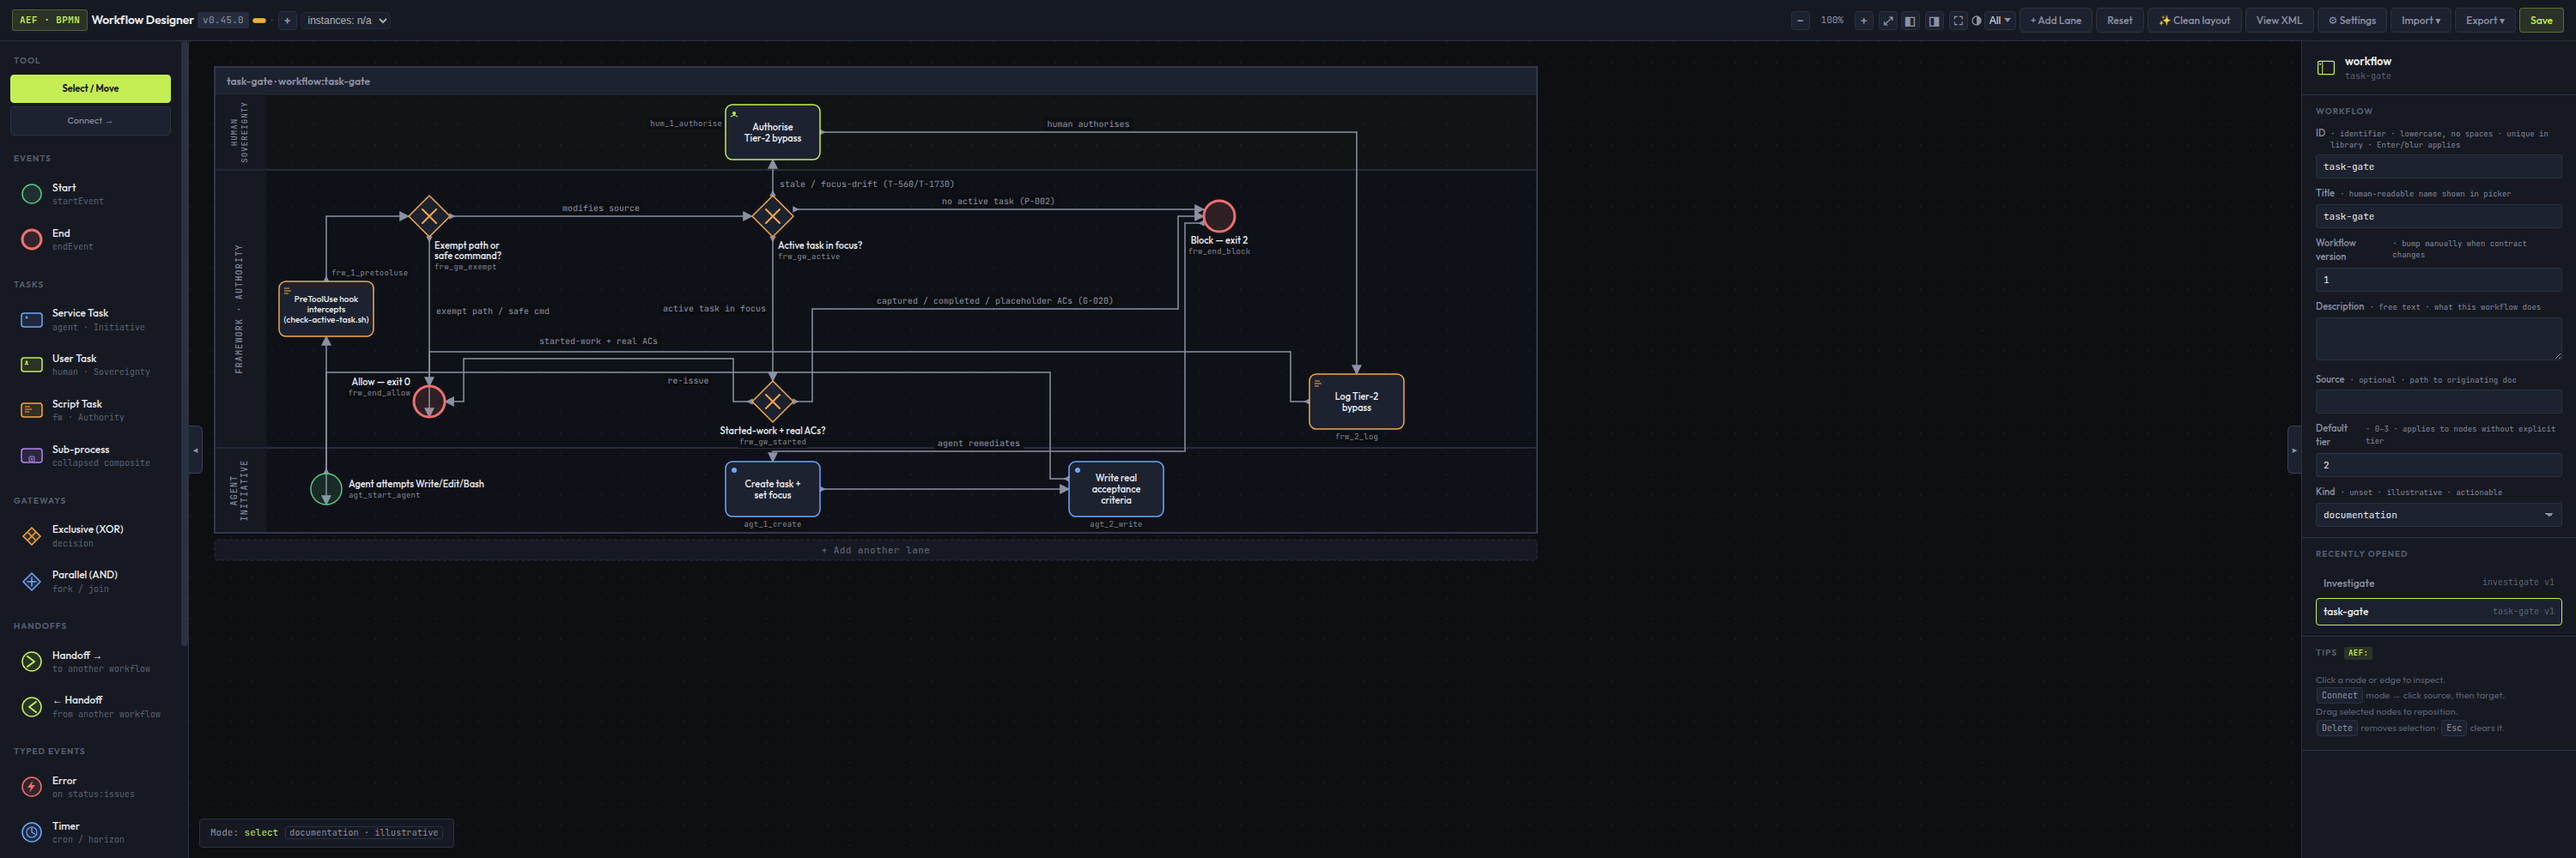
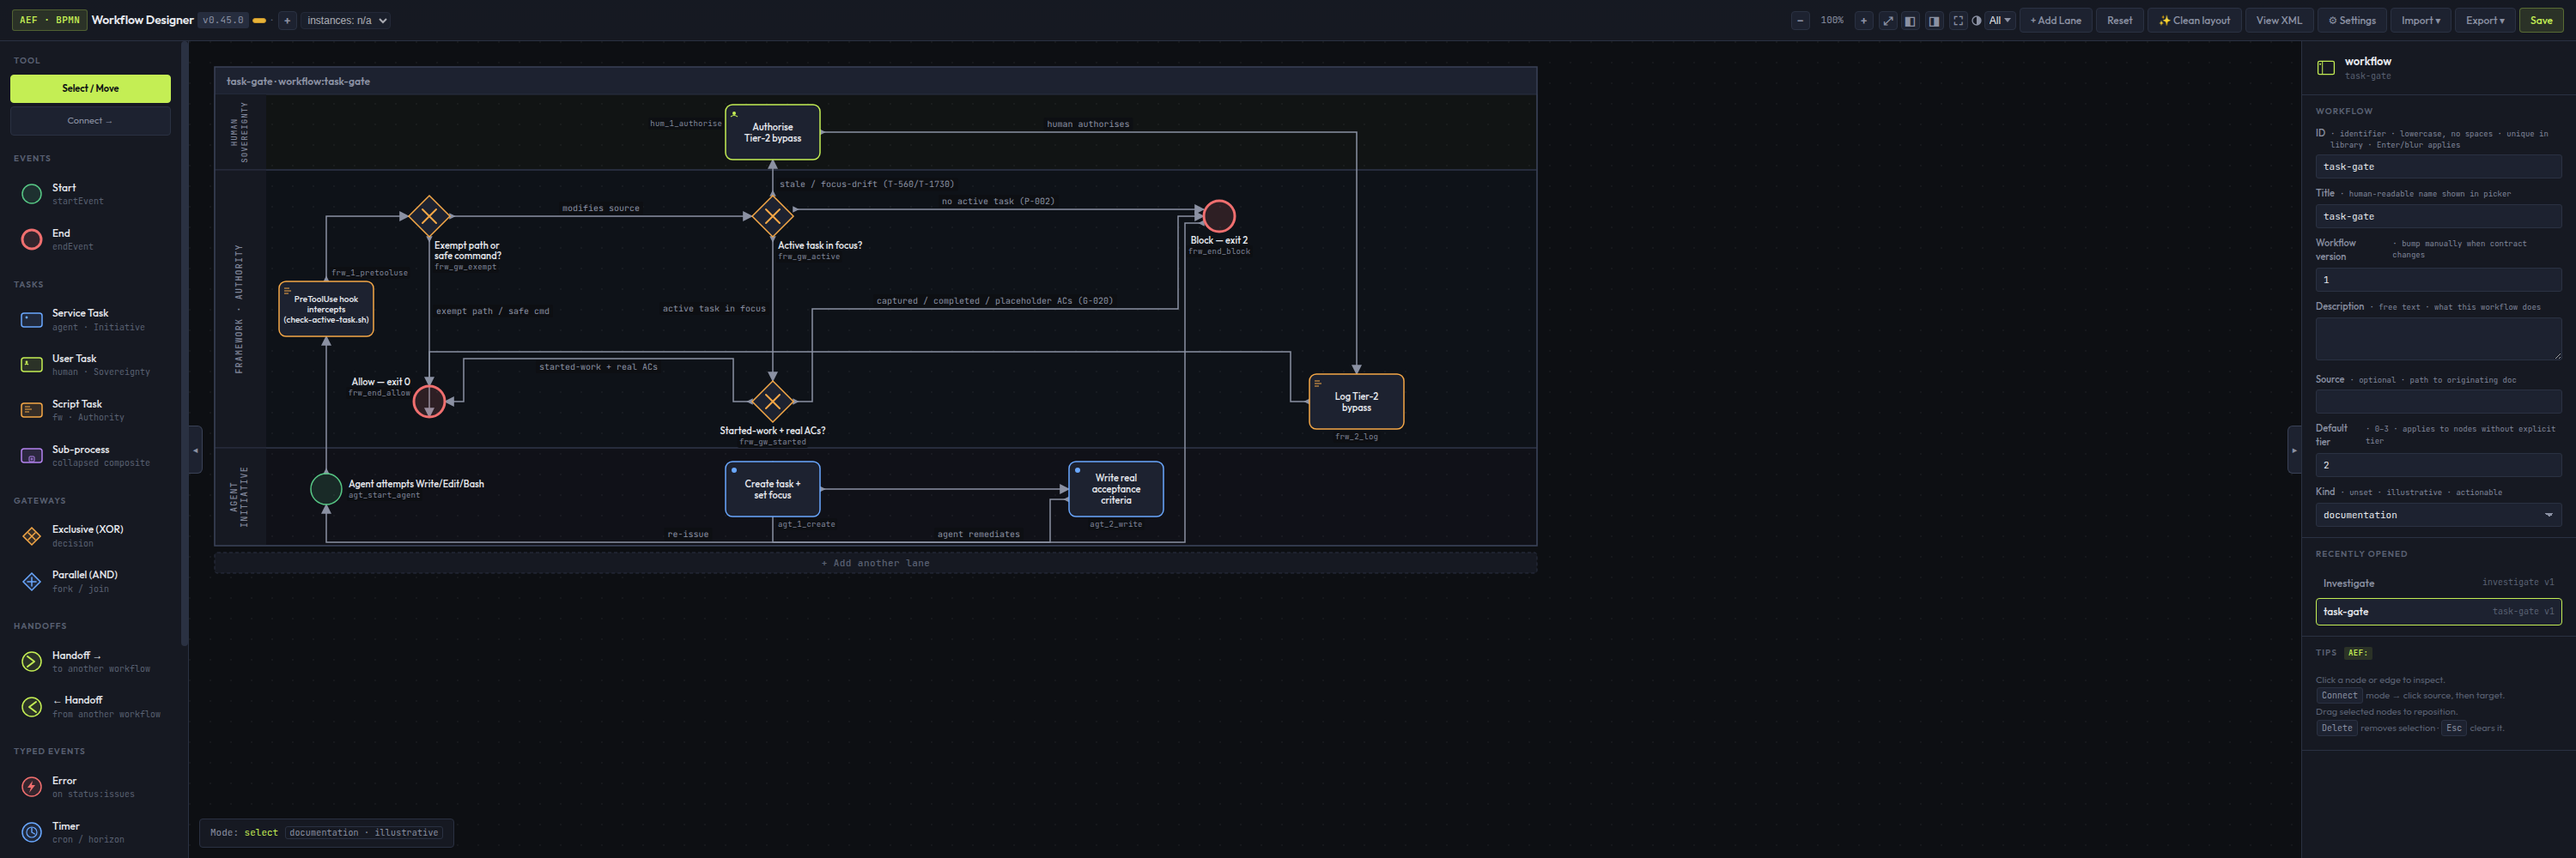
T-1465 round 2: routing change reverted (reviewer red: task-gate 're-issue' lay on the start event's outgoing flow); instead the drawn pool encloses every flow between steps inside the lanes, and its label (drawn only, like T-1154's label pad), so loop bars under the last lane no longer run over the

Changed region(s): [[0.093, 0.62, 0.589, 0.682], [0.341, 0.496, 0.403, 0.527], [0.217, 0.372, 0.248, 0.434]]

diff --git a/src/aef-workflow-designer.html b/src/aef-workflow-designer.html
@@ -4183,6 +4183,19 @@ function fitPoolToLabels() {
     if (b.y < floor) bottom = Math.max(bottom, b.y + b.height + POOL_LABEL_MARGIN_BOTTOM);
     if (b.x + b.width > leftEdge && b.y < floor) left = Math.min(left, b.x - POOL_LABEL_MARGIN);   // T-1386, same rule mirrored
   }
+  // T-1465: a flow between two steps inside the lanes whose loop bar the router put under the last lane (task-lifecycle
+  // 'gate failed — rework', task-gate 're-issue' and 'agent remediates') is drawn inside the pool too, with its label,
+  // so neither runs over the "+ Add another lane" strip. Drawn only, like the label pad; the route is unchanged. A flow
+  // to a step outside the lanes does not stretch it (T-1164's rule: that picture must show the disagreement).
+  const inLanes = id => { const n = state.nodes.find(x => x.id === id); return !!n && n.y >= POOL_Y && n.y < floor; };
+  for (const g of svg.querySelectorAll('#g-edges g.edge[data-id]')) {
+    const e = state.edges.find(x => x.id === g.dataset.id);
+    if (!e || !inLanes(e.source) || !inLanes(e.target)) continue;
+    for (const t of g.querySelectorAll('path.edge-path, text.edge-label')) {
+      let b; try { b = t.getBBox(); } catch (_) { continue; }
+      if (b.y + b.height > floor) bottom = Math.max(bottom, b.y + b.height + POOL_LABEL_MARGIN_BOTTOM);
+    }
+  }
   const pad = Math.ceil(right - edge), padB = getLanes().length ? Math.ceil(bottom - floor) : 0;
   const padL = Math.max(0, Math.ceil(leftEdge - left));
   if (pad !== poolLabelPad || padB !== poolLabelPadBottom || padL !== poolLabelPadLeft) {
@@ -6870,11 +6883,6 @@ function orthoLoopBack(spA, spB, dirA, dirB, src, tgt, edge) {
   const LANE_MARGIN = 12 + routeMargin;     // distance from the lane border to the detour line
   let belowMin, belowMax, aboveMin, aboveMax;
   let topY = -Infinity, botY = Infinity;   // T-1456: the lanes the flow connects (no lane info: unbounded)
-  let poolTopY = -Infinity, poolBotY = Infinity;   // T-1465: all lanes (no lanes: unbounded)
-  if (state.lanes.length) {
-    poolTopY = Math.min(...state.lanes.map(l => laneTop(l.id)));
-    poolBotY = Math.max(...state.lanes.map(l => laneTop(l.id) + l.height));
-  }
   const laneA = findLane(src.lane), laneB = findLane(tgt.lane);
   if (laneA && laneB) {
     topY = Math.min(laneTop(src.lane), laneTop(tgt.lane));
@@ -6939,7 +6947,7 @@ function orthoLoopBack(spA, spB, dirA, dirB, src, tgt, edge) {
 
   let best = candidates[0];
   let bestScore = Infinity;
-  const scoreOf = c => {
+  for (const c of candidates) {
     const crossings = loopPathCrossings(spA, spB, c.y, src, tgt);
     // Interior bars (corridor content on both sides) read as body cuts even
     // when they touch nothing — steer toward true periphery when one exists.
@@ -6953,28 +6961,11 @@ function orthoLoopBack(spA, spB, dirA, dirB, src, tgt, edge) {
     // lie outside the lanes the flow connects. Leaving those lanes cost nothing, so a bar through a FOREIGN lane
     // (nothing below it: no interior penalty) beat every bar inside the lane (Greenfield 'wel', corpus: blocked,
     // re-issue, dry-run). It now costs more than an interior bar and less than cutting a step.
-    // T-1465: a bar above the first lane or below the last is outside the pool altogether: below it runs over the
-    // "+ Add another lane" strip and its label sits there. It costs more than a foreign lane, less than cutting a step.
-    const foreignLane = (c.y < poolTopY || c.y > poolBotY) ? 90 : (c.y < topY || c.y > botY) ? 50 : 0;
+    const foreignLane = (c.y < topY || c.y > botY) ? 50 : 0;
     // T-1456 round 2: running along another flow is worse than leaving the lane (an ambiguous route reads worse)
     const alongside = barRunsAlongFlows(c.y, spA.x, spB.x, edge) * 60;
-    return crossings * 100 + alongside + foreignLane + interiorPenalty + closenessPenalty + (c.kind === 'above' ? 0.05 : 0);
-  };
-  for (const c of candidates) {
-    const score = scoreOf(c);
+    const score = crossings * 100 + alongside + foreignLane + interiorPenalty + closenessPenalty + (c.kind === 'above' ? 0.05 : 0);
     if (score < bestScore) { bestScore = score; best = c; }
-  }
-  // T-1465: the band rules can leave no candidate inside the pool but cutting ones (task-lifecycle 'gate failed —
-  // rework': the only height below its steps was under the last lane, every one above cut a step; task-gate 'agent
-  // remediates' and 're-issue' the same), so the bar ran outside the pool, over the add-lane strip. Only then, every
-  // height inside the pool, 4 px apart, is scored the same way; the best of them is taken when it scores better.
-  if (best.y < poolTopY || best.y > poolBotY) {
-    const lo = poolTopY + LANE_MARGIN, hi = poolBotY - LANE_MARGIN;
-    for (let y = lo; y <= hi; y += 4) {
-      const c = { y, kind: y >= lowestBottom ? 'below' : 'above' };
-      const score = scoreOf(c);
-      if (score < bestScore) { bestScore = score; best = c; }
-    }
   }
 
   const detourY = best.y;

diff --git a/.tasks/active/T-1465-labels-a-flows-label-is-placed-on-the--a.md b/.tasks/active/T-1465-labels-a-flows-label-is-placed-on-the--a.md
@@ -45,7 +45,7 @@ related_tasks: []
 #                                 # session from consuming the captured→started-work transition the demo
 #                                 # worker expects to drive. Origin OBS-057.
 created: 2026-11-20T16:00:36Z
-last_update: 2026-11-21T12:44:37Z
+last_update: 2026-11-21T13:00:01Z
 date_finished:
 # revisit_at: YYYY-MM-DD          # T-1451: set on DEFER decisions to enable G-053 daily revisit scan
 # revisit_evidence_needed:        # T-1451: one-line description of what evidence makes the revisit actionable
@@ -91,10 +91,13 @@ bvp_scores_proposed:
 pass (`adjustEdgeLabelPlacements`, T-082) counts edges, nodes, node labels and other flow labels as obstacles, but
 not the add-lane strip, so a flow running along the pool's bottom keeps a label on (or pushed onto) the strip.
 
-**Goal:** no flow label lies on the add-lane strip; labels stay inside the pool, next to their flow.
+Measured (round 1): the label follows its flow, and the flow itself runs under the last lane — the loop-back router's
+only height below the steps lies there (task-lifecycle, and task-gate's 're-issue' and 'agent remediates').
 
-**Expected outcome:** task-lifecycle's "gate failed — rework" label sits clear of the strip at every width; no other
-corpus label moves where it did not touch the strip; saved bytes unchanged (labels are not saved, T-423).
+**Goal:** no flow or flow label lies on the add-lane strip; the drawn pool encloses every flow between its steps.
+
+**Expected outcome:** the drawn pool grows (drawn only, like T-1154's label pad) to enclose such a bar and its label, so
+the strip sits below them; routes unchanged; saved bytes unchanged (lane.height is what is saved).
 
 ## Acceptance Criteria
 
@@ -106,15 +109,14 @@ corpus label moves where it did not touch the strip; saved bytes unchanged (labe
 - [x] Screenshots of the changed maps before and after, measured and recorded in `## Visual Verification`
 
 ### Human
-- [ ] [REVIEW] The changed routes read at least as well as before, and no label sits on the "+ Add another lane" strip
-  **Why you:** taste — whether a route inside the pool through a busier band reads better than one under the pool (reviewer-judged; may escalate)
+- [ ] The maps read at least as well as before, and no flow or label sits on the "+ Add another lane" strip
   **Judged by:** the independent reviewer on the images (`fw reviewer judge T-1465 --criterion 1`), who may escalate.
   **Steps:**
-  1. `docs/reports/T-1465-shots/task-lifecycle-wide-{before,after}.png` (3000 px window, whole map): 'gate failed — rework' ran under the pool, over the strip, its label on the strip; after, it runs along the top of lane Framework and its label is above it
-  2. `docs/reports/T-1465-shots/task-gate-wide-{before,after}.png`: 're-issue' and 'agent remediates' ran under the pool over the strip; after, they run inside lane Framework
-  3. For each changed flow: can it be followed from source to target, is its label next to it and readable, did other flows or labels get harder to read
+  1. `docs/reports/T-1465-shots/task-lifecycle-wide-{before,after}.png` (3000 px window, whole map): before, 'gate failed — rework' ran under the pool's bottom edge, over the strip, its label on the strip text; after, the route is the same, the drawn pool encloses it and its label, and the strip sits below
+  2. `docs/reports/T-1465-shots/task-gate-wide-{before,after}.png`: 're-issue' and 'agent remediates', same: routes unchanged, now inside the drawn pool, strip below
+  3. Round 1 (`*-after-round1-rerouted.png`) re-routed these flows inside the lanes instead; judged red (V-20261121, 're-issue' lay on the start event's outgoing flow). Round 2 changes no route.
   **Expected:** after reads at least as well as before in each pair; nothing on the strip.
-  **If not:** name the map, the flow and what reads worse; the agent changes the rule (for example: grow the lane so the bar under the steps fits inside it) and re-measures.
+  **If not:** name the map, the flow and what reads worse; the agent adjusts and re-measures.
 <!-- Criteria requiring human verification (UI/UX, subjective quality). Not blocking.
      Remove this section if all criteria are agent-verifiable.
      Each criterion MUST include Steps/Expected/If-not so the human can act without guessing.
@@ -305,22 +307,27 @@ bash -n tests/run-bridge-tests.sh
 
 | state | control | 1024 | 1440 | 1920 | note |
 |-------|---------|------|------|------|------|
-| task-lifecycle opening view | flow 'gate failed — rework' and its label | ok | ok | ok | label off the strip at all three widths (S1, measured); bar inside the pool (S2); wide shot `docs/reports/T-1465-shots/task-lifecycle-wide-after.png`: bar along the top of lane Framework, label above it near the Human/Framework border |
-| task-gate opening view | flows 're-issue', 'agent remediates' | ok | ok | ok | bars inside lane Framework (S2); wide shot `docs/reports/T-1465-shots/task-gate-wide-after.png`: they cross more verticals than before, which is the reviewer's question |
-| all 24 corpus maps + Greenfield fixture | "+ Add another lane" strip | ok | ok | ok | no label on it (S1: 417 labels measured per width set); person-sees gate exit 0 (label-clearance 0 errors), `build/tiergate/t1465-psg.out` |
+| task-lifecycle opening view | flow 'gate failed — rework' and its label | ok | ok | ok | label off the strip at all three widths (S1); flow and label inside the drawn pool (S2); wide shot `docs/reports/T-1465-shots/task-lifecycle-wide-after.png`: same route as before, the Agent lane drawn ~20 px taller around it, label under the bar, strip below |
+| task-gate opening view | flows 're-issue', 'agent remediates' | ok | ok | ok | same routes as before, inside the drawn pool (S2); wide shot `docs/reports/T-1465-shots/task-gate-wide-after.png`: labels above their bars inside the Agent lane, strip below |
+| all 24 corpus maps + Greenfield fixture | "+ Add another lane" strip | ok | ok | ok | nothing on it (S1: 417 labels measured per width set; S2: no flow outside the drawn pool); person-sees gate `build/tiergate/t1465-psg2.out` |
 
-Read by the author: before, task-lifecycle's label "gate failed — rework" printed over the strip text ("+ Add | gate failed — rework"), and task-gate's two flows ran along the strip. After, the strip reads "+ Add another lane" alone on both maps.
+Read by the author: before, task-lifecycle's label "gate failed — rework" printed over the strip text ("+ Add | gate failed — rework"), and task-gate's two flows ran along the strip. After (round 2), the routes are unchanged, the pool's bottom edge runs below them, and the strip reads "+ Add another lane" alone on both maps. Other maps: unchanged (the pad is 0 where no flow runs below the lanes).
 
 ## RCA
 
 **Symptom:** task-lifecycle's flow label "gate failed — rework" drawn on the "+ Add another lane" strip, under its text.
 **Root cause:** the flow itself ran under the pool. In `orthoLoopBack` the only bar height below the steps was outside the
 lanes (the band rule leaves none inside when the lower step is near the lane bottom), every height above cut a step,
-and a bar outside the pool cost the same as one through a foreign lane (50), so it won. Same for task-gate's two flows.
-**Why structurally allowed:** no check measured flows against the pool's own bounds, only against lanes (T-1456's C1
-counts same-lane flows), and the strip is UI chrome no label pass treats as an obstacle.
-**Prevention:** `_t1465-label-strip-cdp.mjs` in the browser tier: S1 (no label on the strip) and S2 (no automatically
-routed flow outside the pool), on every corpus map at three widths; teeth: the 0.45.0 designer fails both.
+and a bar outside the lanes cost the same as one through a foreign lane (50), so it won. Same for task-gate's two flows.
+The drawn pool (`fitPoolToLabels`, T-1154) grew for node labels only, never for flows, so the bar and its label ended
+up below the pool's edge, where the strip is drawn.
+**Fix (round 2):** `fitPoolToLabels` also encloses every drawn flow (and its label) between two steps inside the lanes;
+drawn only. Round 1 re-routed the bar inside the lanes instead; the reviewer judged it red (task-gate 're-issue' then lay
+on the start event's outgoing flow, entering against its direction), so it was reverted: routes are as before.
+**Why structurally allowed:** no check measured flows against the drawn pool, only against lanes (T-1456's C1 counts
+same-lane flows), and the strip is UI chrome no label pass treats as an obstacle.
+**Prevention:** `_t1465-label-strip-cdp.mjs` in the browser tier: S1 (no label on the strip) and S2 (every flow and its
+label inside the drawn pool), on every corpus map at three widths; teeth: the 0.45.0 designer fails both.
 
 <!-- REQUIRED for bug-class tasks (workflow_type=build with bug-tag, OR title matches
      fix/bug/rca/broken/crash/error/regression/fail/hotfix).
